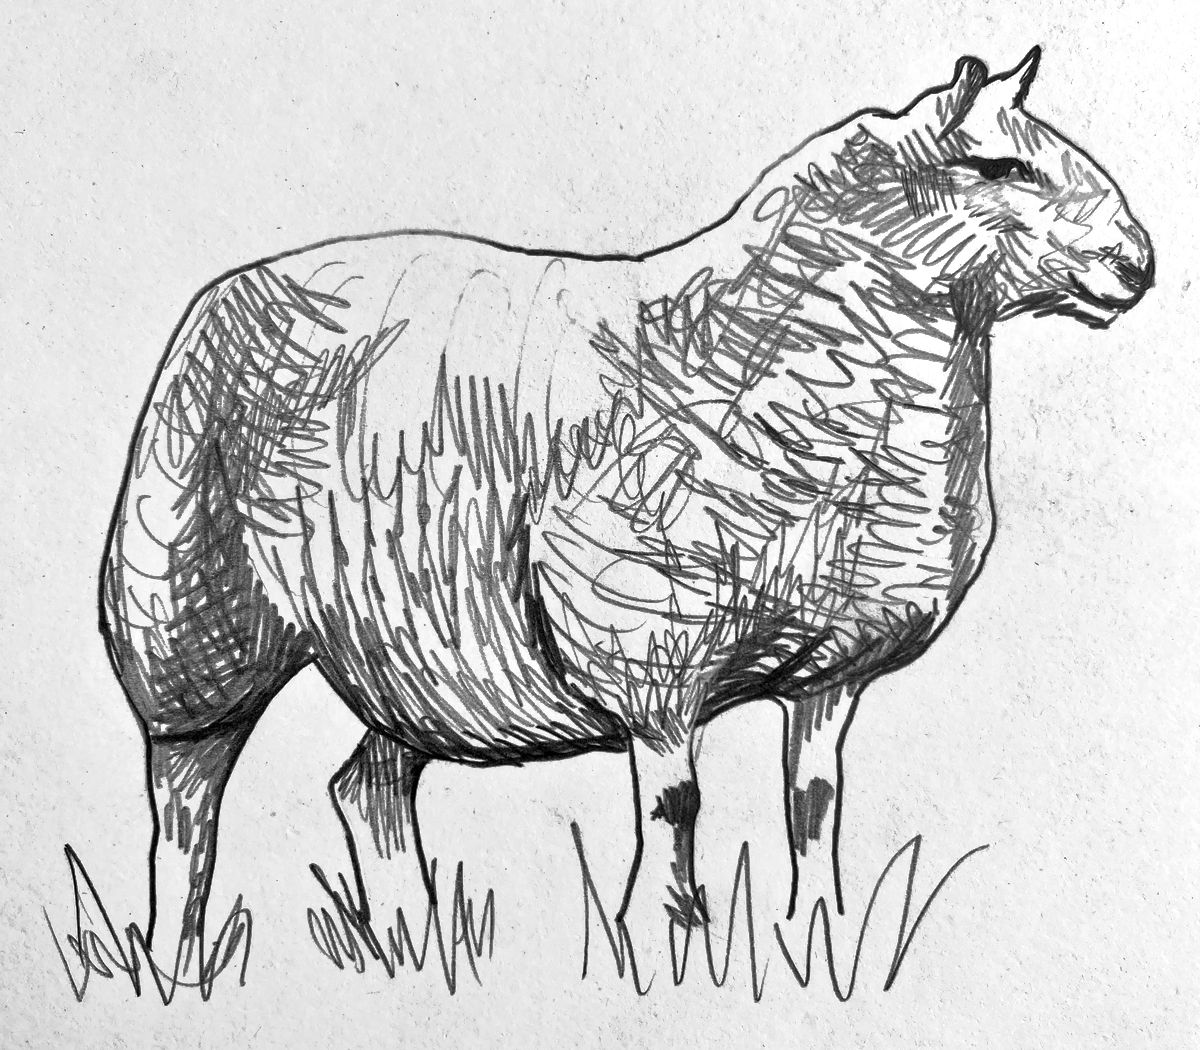
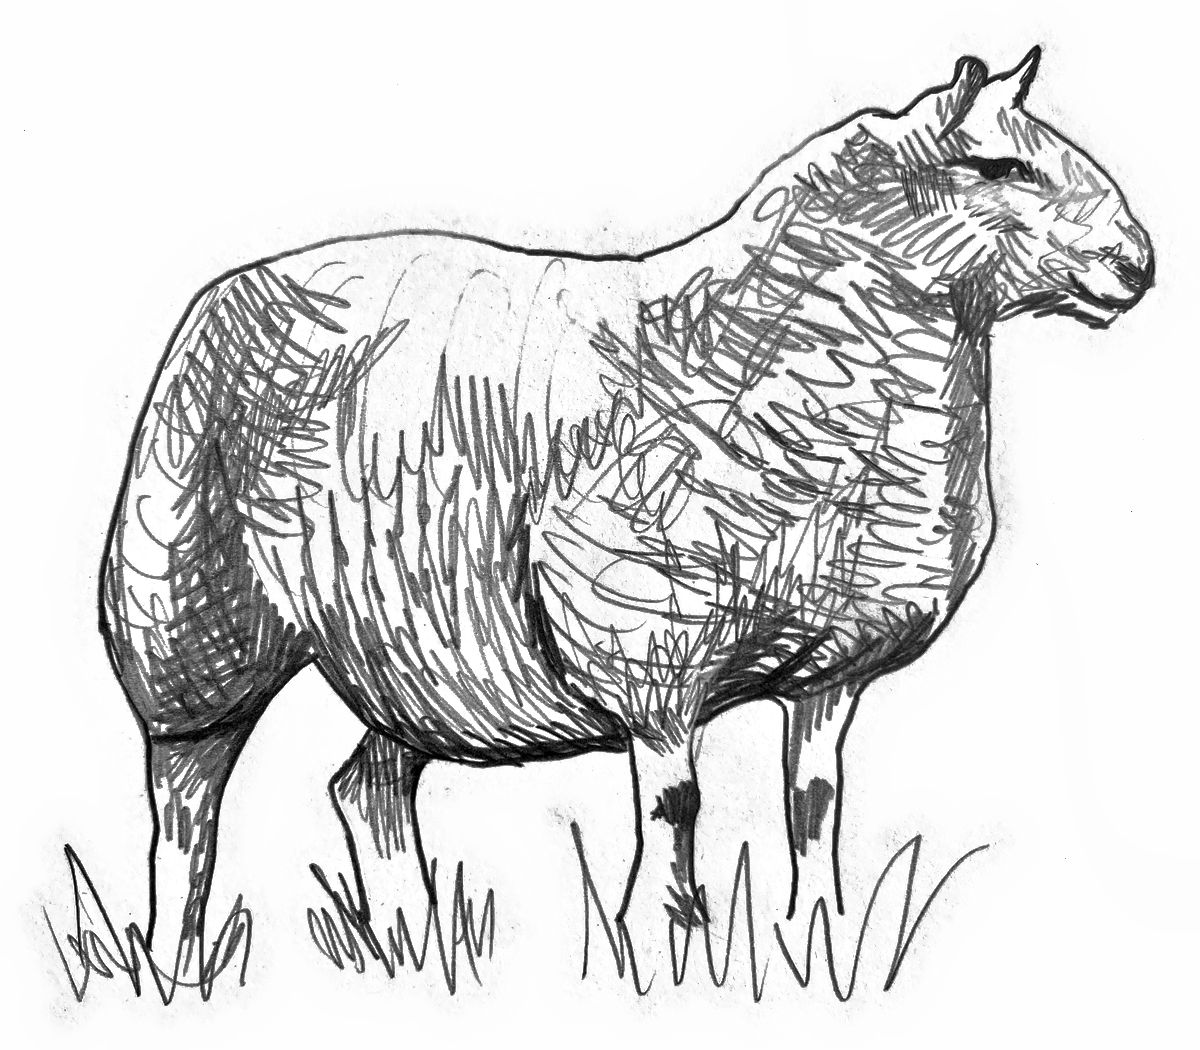
change fonts on headers for each page and brightened image backgrounds.

diff --git a/client/src/App.css b/client/src/App.css
@@ -73,7 +73,6 @@ body {
 }
 
 .home h1 {
-  font-size: 42px;
   color: #7C91C2;
   margin-bottom: 28px;
   line-height: 1.4;   /* the inherited line-height is fixed at ~23px, too short for this script when it wraps */
@@ -187,7 +186,8 @@ button:hover {
 h1 {
 font-family: Pacifico;
 color: #d48c44;
-font-size: 55px;
+font-size: clamp(40px, 10vw, 64px);   /* page titles: 64px on wider screens, down to 40px on small phones */
+line-height: 1.3;   /* the inherited line-height is fixed at ~26px, too short for this large script */
 }
 h2 {
   color: #B88E3A;
@@ -213,8 +213,6 @@ font-style: italic;
 }
 
 .breed-explorer-page h1 {
-  font-size: clamp(40px, 10vw, 64px);   /* 64px on wider screens, scales down to 40px on small phones */
-  line-height: 1.3;
   margin-bottom: 16px;
   color: #7C91C2;
 }
@@ -294,7 +292,6 @@ font-style: italic;
 }
 
 .shop-page h1 {
-  font-size: 28px;
   margin-bottom: 8px;
   color: #9B6E86;
 }
@@ -362,7 +359,6 @@ font-style: italic;
 /* project tracker page */
 
 .tracker-page h1 {
-  font-size: 35px;
   color:#B88E3A
 }
 
@@ -397,7 +393,6 @@ font-style: italic;
 
 .gauge-page h1 {
   margin-bottom: 14px;
-  font-size: 30px;
   color:#9bb494;
 }
 
@@ -466,7 +461,6 @@ font-style: italic;
 }
 
 .tool-title {
-  font-size: 28px;
   margin-bottom: 20px;
 }
 
@@ -724,4 +718,12 @@ font-style: italic;
   .breed-explorer-page .breed-hero {
     animation: none;
   }
+}
+
+
+/* gauge calculator photo: round, keeping the white border from .image-standard */
+.gauge-page .gauge-hero {
+  aspect-ratio: 1;
+  object-fit: cover;
+  border-radius: 50%;
 }

diff --git a/client/src/pages/GaugeCalculator.jsx b/client/src/pages/GaugeCalculator.jsx
@@ -1,5 +1,6 @@
 import { useState } from "react";
-import swatch from "../assets/swatch.jpeg";
+// square crop of swatch.jpeg, framed around the knitting for the round photo
+import swatch from "../assets/swatchCircle.jpg";
 
 export default function GaugeCalculator() {
   const [stitches, setStitches] = useState("");
@@ -32,7 +33,7 @@ export default function GaugeCalculator() {
       <img
         src={swatch}
         alt="A small swatch being knit on circular needles"
-        className="image-standard"
+        className="image-standard gauge-hero"
       />
 
       <h2>What is Gauge?</h2>
